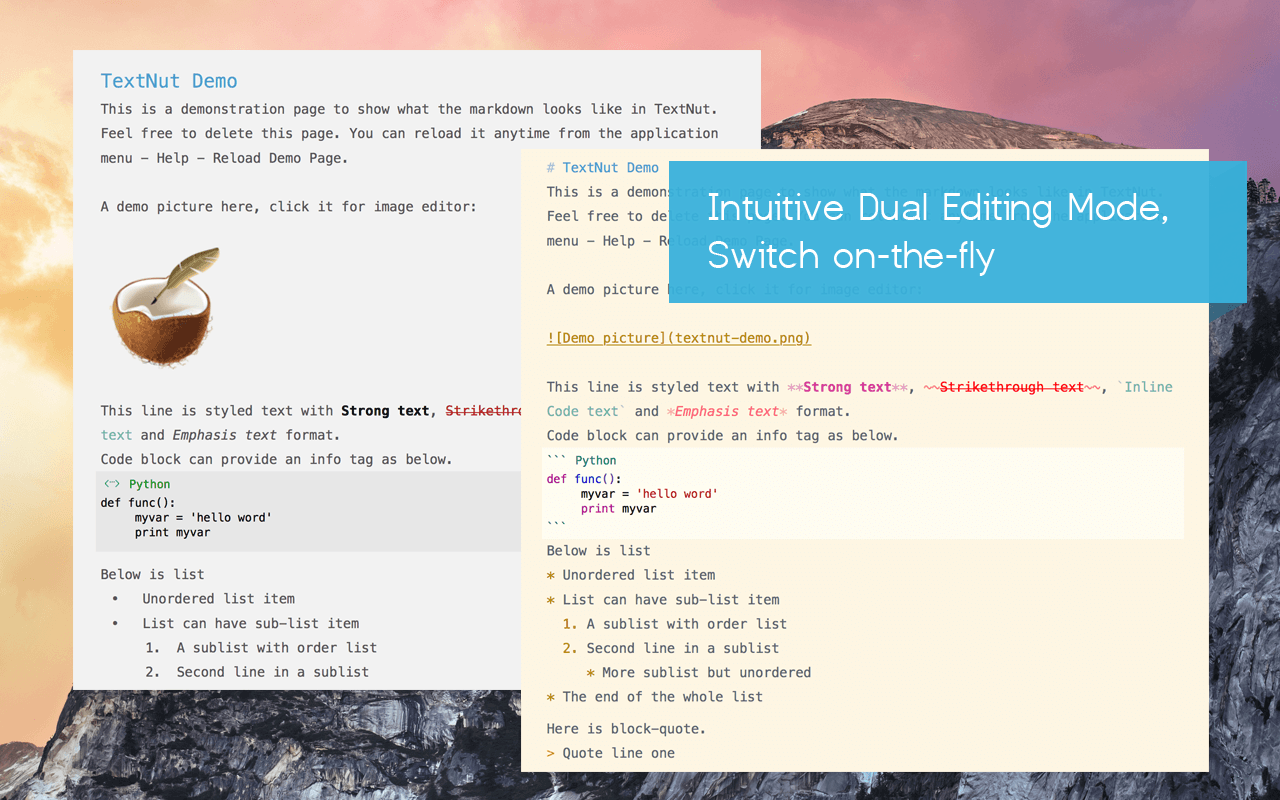
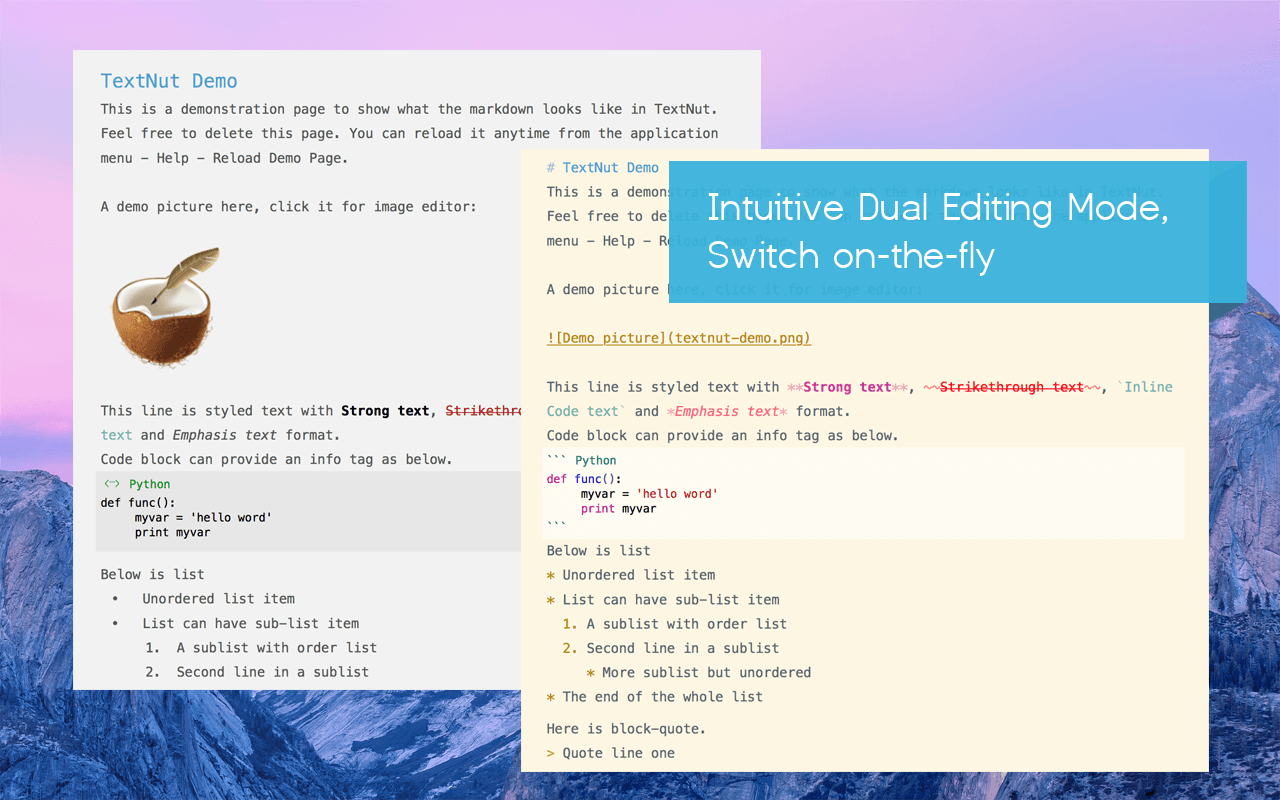
new screenshot with background

Changed region(s): [[0.0, 0.0, 1.0, 1.0]]

diff --git a/index.html b/index.html
@@ -65,6 +65,17 @@ layout: home
             </div>
             <div class="row">
                <div class="col-md-4">
+                    <h3 class="feature-title">Sync by iCloud or Dropbox</h3>
+                    <div class="screenshot-text">
+                        The documents managed by TextNut can be synchronised by iCloud or Dropbox across Mac, iPhone or iPad.
+                    </div>
+               </div>
+               <div class="col-md-8">
+                <a href="img/intro/f0.png" data-lightbox="screenshot"><img src="img/intro/s0.png" class="img-responsive"></a>
+               </div>
+            </div>            
+            <div class="row">
+               <div class="col-md-4">
                      <h3 class="feature-title">Themes</h3>
                     <div class="screenshot-text">
                         Six beautiful themes are provided by default. You can create your own themes easily. With the Zen mode, you can fully concentrate on your writing in a beautiful environment.
@@ -181,7 +192,7 @@ layout: home
     </section>
 
 
-
+<img src="img/intro/f0.png" style="display:none">
 <img src="img/intro/f1.png" style="display:none">
 <img src="img/intro/f2.png" style="display:none">
 <img src="img/intro/f3.png" style="display:none">
